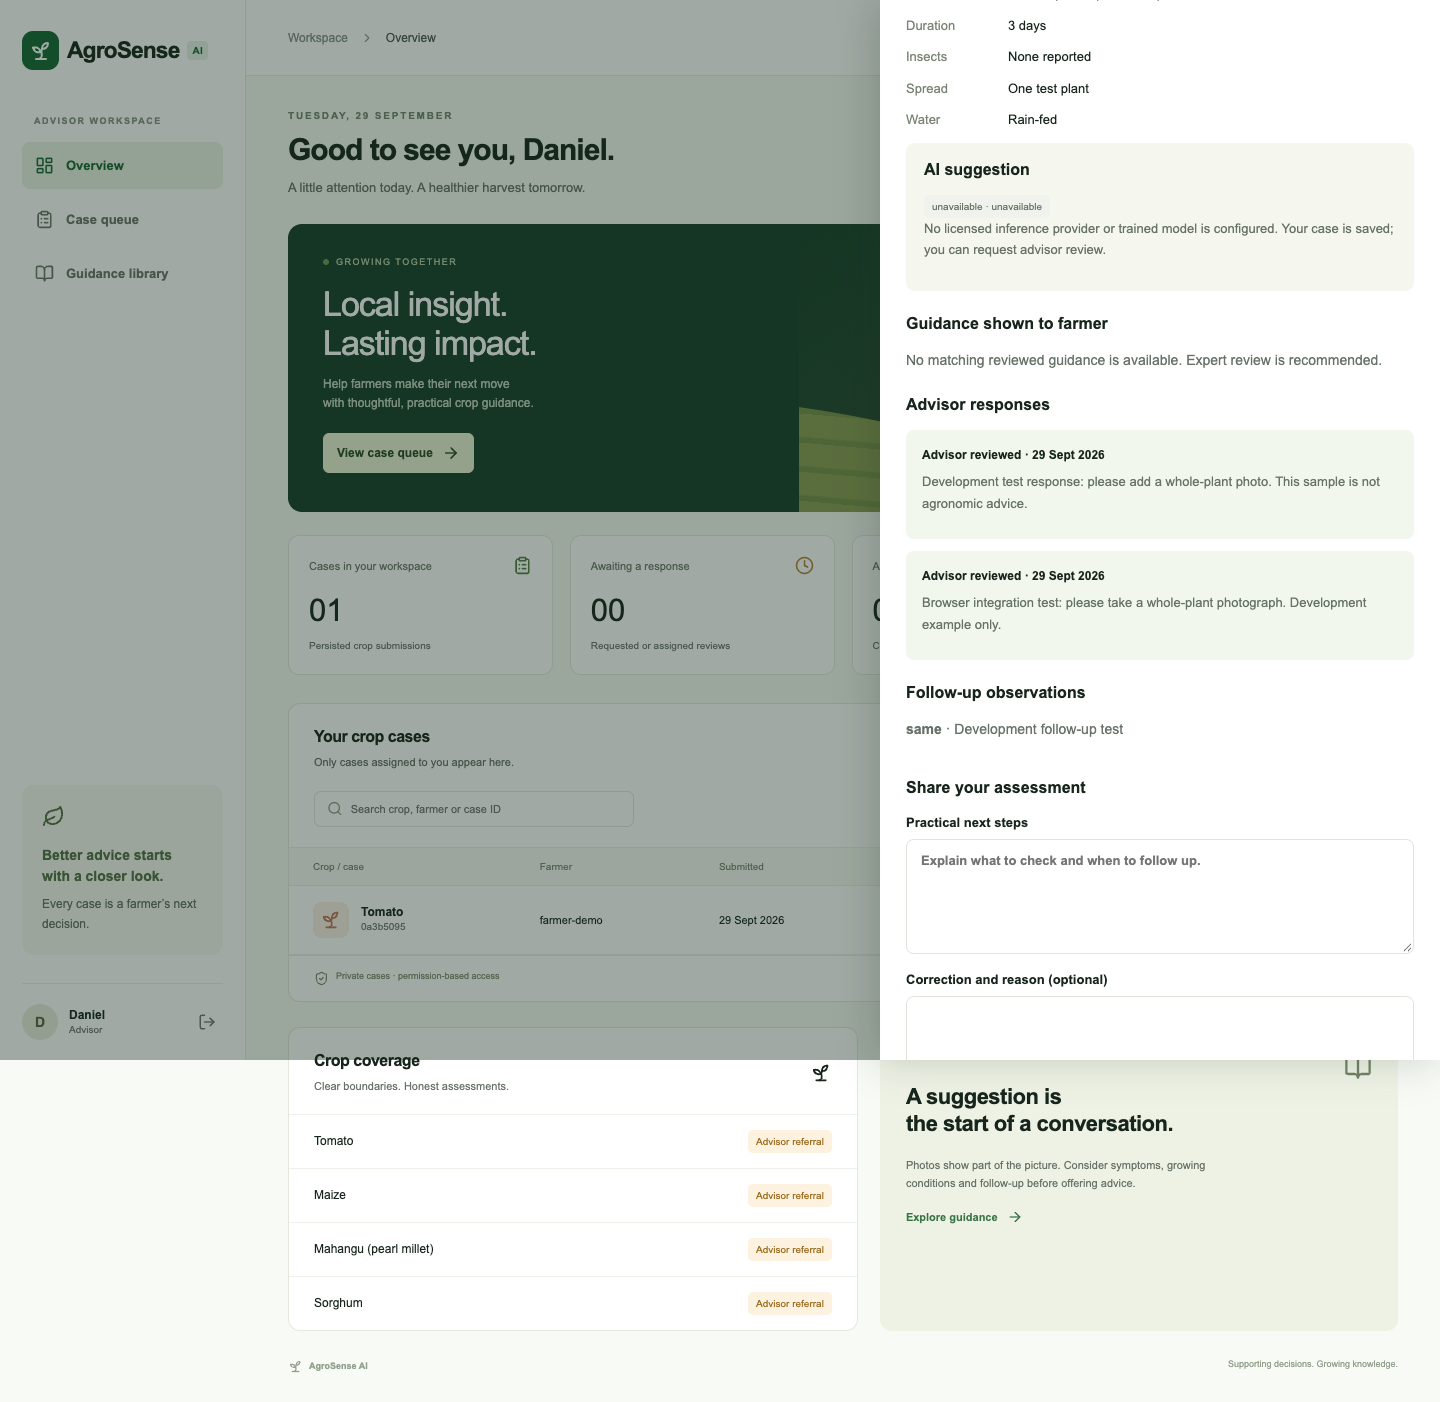
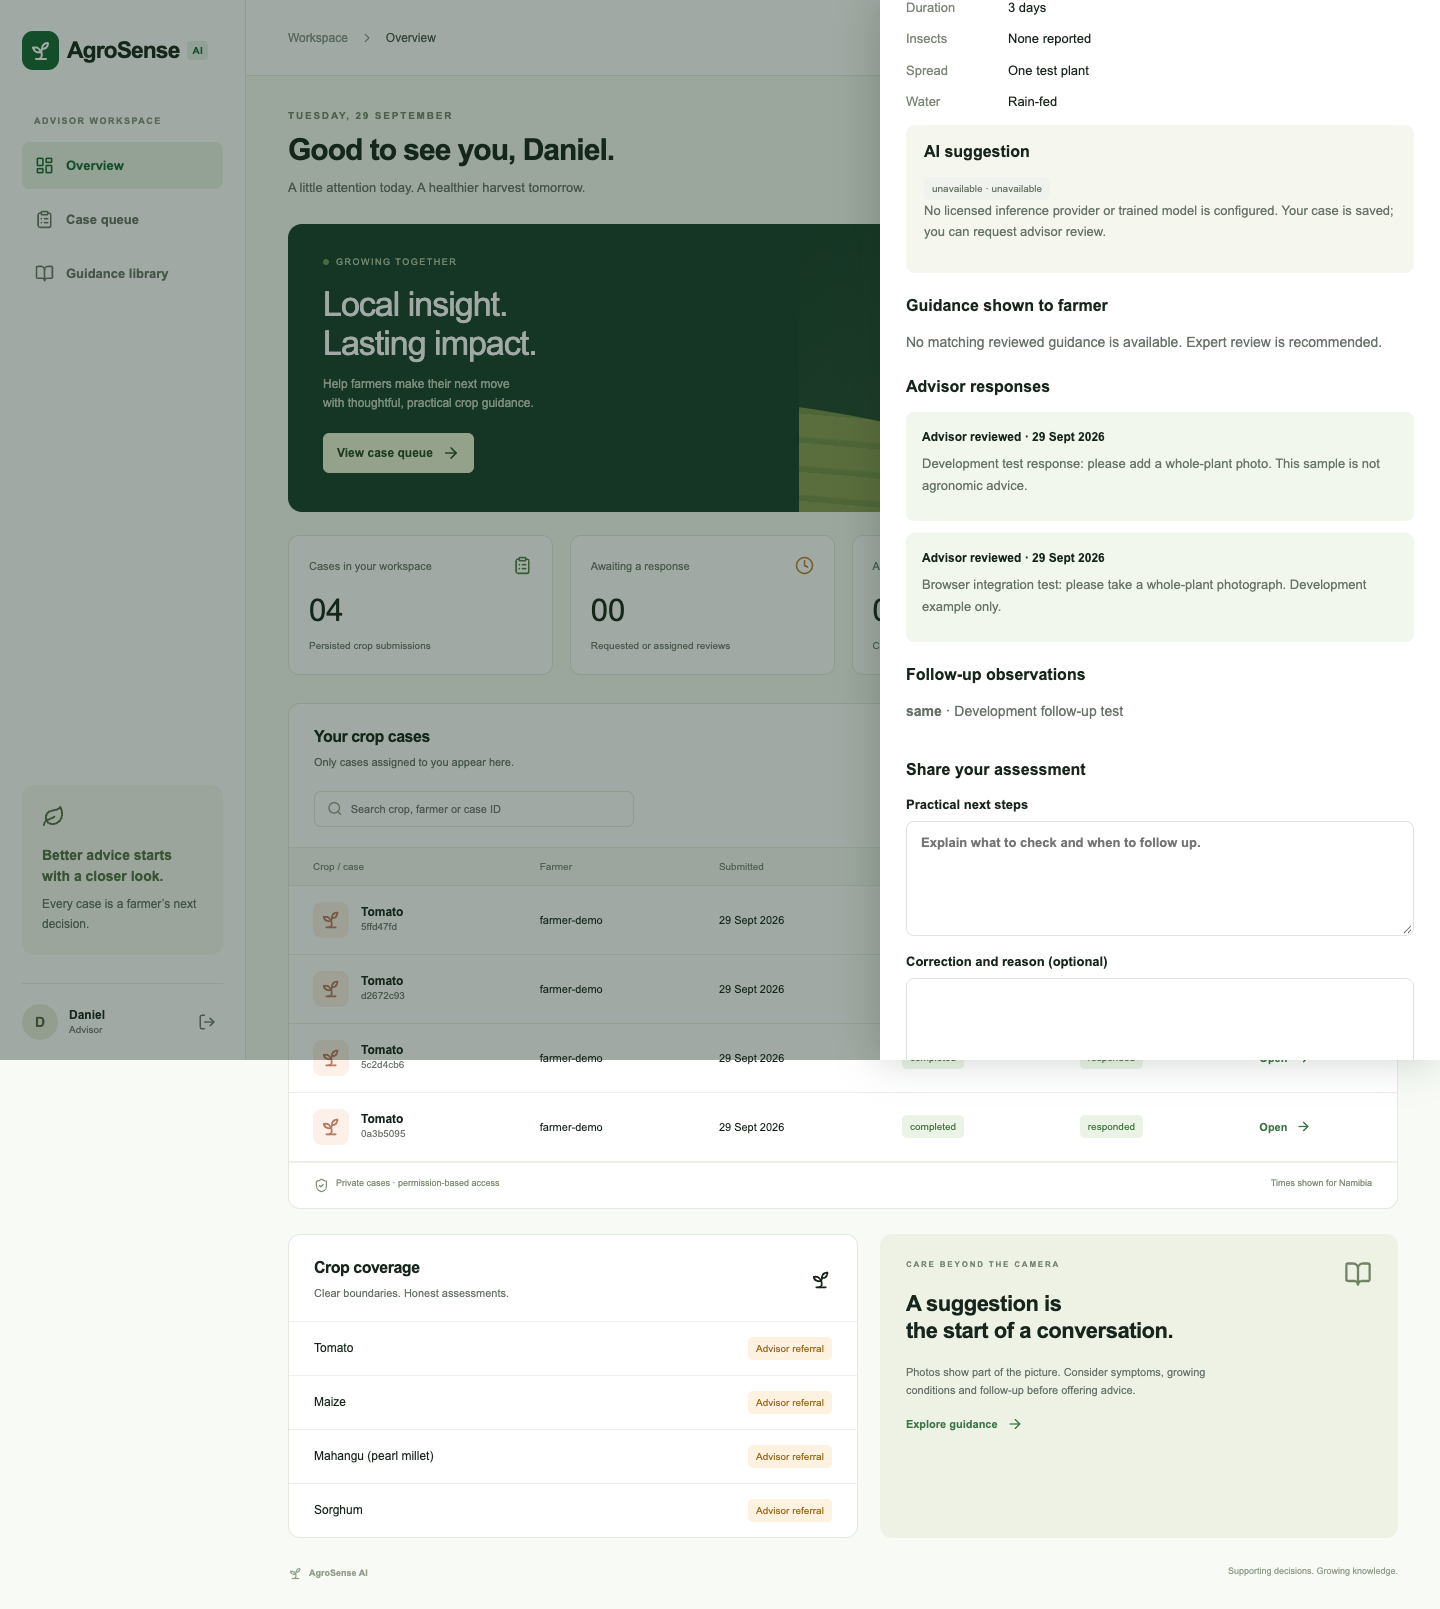
Record emulator verification and pin path_provider plugins
Work done in the Codex session, committed before the app is simplified.

- apps/farmer-mobile/pubspec.yaml/.lock: pin path_provider_android 2.2.22
  and path_provider_foundation 2.4.2, whose platform-channel versions
  load under the tested Flutter 3.38.4 toolchain
- scripts/android-ui.py, scripts/android-offline-check.py: adb helpers
  for driving the emulator, including an offline submit, force-stop and
  reconnect check
- docs/test-summary.md: emulator journey, APK build and current test
  counts; README: APK location and the content check script
- docs/screenshots: refreshed portal shots and farmer-app screens

diff --git a/scripts/android-offline-check.py b/scripts/android-offline-check.py
@@ -1,0 +1,50 @@
+import json,re,sqlite3,subprocess,tempfile,time,xml.etree.ElementTree as ET
+from pathlib import Path
+ROOT=Path(__file__).resolve().parents[1]
+PACKAGE='na.agrosense.agrosense_farmer'
+def adb(*args): return subprocess.check_output(['adb','-s','emulator-5554',*args],timeout=30)
+def nodes():
+    adb('shell','uiautomator','dump','/sdcard/agrosense-ui.xml')
+    return ET.fromstring(adb('shell','cat','/sdcard/agrosense-ui.xml')).iter('node')
+def tap(label):
+    for n in nodes():
+        value=n.get('content-desc','') or n.get('text','') or n.get('hint','')
+        if label in value and n.get('enabled')=='true':
+            x1,y1,x2,y2=map(int,re.findall(r'\d+',n.get('bounds')))
+            adb('shell','input','tap',str((x1+x2)//2),str((y1+y2)//2));return
+    raise RuntimeError('Missing UI control: '+label)
+def snapshot():
+    data=adb('exec-out','run-as',PACKAGE,'cat','databases/agrosense.db')
+    path=Path(tempfile.mktemp(suffix='.sqlite'))
+    path.write_bytes(data)
+    db=sqlite3.connect(path)
+    rows=db.execute('SELECT id,ready,server_id FROM drafts').fetchall()
+    db.close();path.unlink();return rows
+try:
+    adb('shell','svc','wifi','disable')
+    adb('shell','svc','data','disable')
+    tap('Save and submit crop check')
+    time.sleep(2)
+    adb('shell','am','force-stop',PACKAGE)
+    before=snapshot();assert len(before)==1 and before[0][1]==1,before
+    key=before[0][0]
+    adb('shell','am','start','-n',PACKAGE+'/.MainActivity')
+    time.sleep(3)
+    restarted=snapshot();assert restarted[0][0]==key,restarted
+    for _ in range(3): adb('shell','input','swipe','530','1850','530','650','400');time.sleep(.3)
+    (ROOT/'docs/screenshots/farmer-offline-draft.png').write_bytes(adb('exec-out','screencap','-p'))
+finally:
+    adb('shell','svc','wifi','enable')
+    adb('shell','svc','data','enable')
+time.sleep(3)
+tap('Sync saved work')
+for _ in range(35):
+    time.sleep(1)
+    if not snapshot():break
+else:raise AssertionError('Draft did not synchronize')
+db=sqlite3.connect(ROOT/'data/agrosense.sqlite')
+count=db.execute('SELECT COUNT(*) FROM cases WHERE client_submission_id=?',(key,)).fetchone()[0]
+assert count==1,count
+case=db.execute('SELECT id,processing_state FROM cases WHERE client_submission_id=?',(key,)).fetchone()
+assert db.execute('SELECT COUNT(*) FROM jobs WHERE case_id=?',(case[0],)).fetchone()[0]==1
+print(json.dumps({'passed':True,'draft_id':key,'server_case_count':count,'case_id':case[0],'checks':['device capture','offline ready draft','force-stop and restart persistence','reconnect upload','one server case and job']}))

diff --git a/scripts/android-ui.py b/scripts/android-ui.py
@@ -1,0 +1,43 @@
+"""Small local-emulator UI verification helper; no production devices."""
+import re
+import subprocess
+import sys
+import time
+import xml.etree.ElementTree as ET
+from pathlib import Path
+
+DEVICE = 'emulator-5554'
+
+def adb(*args):
+    return subprocess.check_output(['adb', '-s', DEVICE, *args], timeout=30)
+
+def nodes():
+    adb('shell','uiautomator','dump','/sdcard/agrosense-ui.xml')
+    return ET.fromstring(adb('shell','cat','/sdcard/agrosense-ui.xml')).iter('node')
+
+def tap(text):
+    for n in nodes():
+        value=n.get('content-desc','') or n.get('text','') or n.get('hint','')
+        if text.lower() in value.lower() and n.get('enabled')=='true':
+            x1,y1,x2,y2=map(int,re.findall(r'\d+',n.get('bounds')))
+            adb('shell','input','tap',str((x1+x2)//2),str((y1+y2)//2))
+            time.sleep(.8)
+            print('Tapped:',value)
+            return
+    raise SystemExit('Not found: '+text)
+
+command=sys.argv[1]
+if command=='tap': tap(sys.argv[2])
+elif command=='text': adb('shell','input','text',sys.argv[2].replace(' ','%s'))
+elif command=='down': adb('shell','input','swipe','530','1850','530','650','450')
+elif command=='up': adb('shell','input','swipe','530','650','530','1850','450')
+elif command=='back': adb('shell','input','keyevent','4')
+elif command=='dump':
+    for n in nodes():
+        value=n.get('content-desc','') or n.get('text','') or n.get('hint','')
+        if value: print(n.get('class'),n.get('bounds'),repr(value))
+elif command=='shot':
+    name=sys.argv[2]
+    if not re.fullmatch(r'[a-z0-9-]+',name): raise SystemExit('Invalid screenshot name')
+    Path('docs/screenshots/'+name+'.png').write_bytes(adb('exec-out','screencap','-p'))
+else: raise SystemExit('Unknown command')

diff --git a/docs/test-summary.md b/docs/test-summary.md
@@ -2,28 +2,36 @@
 
 Verified locally on 29 September 2026. These tests measure software behavior, not diagnostic accuracy.
 
-| Check                                                                                       | Result                                                     |
-| ------------------------------------------------------------------------------------------- | ---------------------------------------------------------- |
-| NestJS API TypeScript compilation                                                           | Passed                                                     |
-| React TypeScript/Vite production build                                                      | Passed                                                     |
-| Backend workflow/authorization tests                                                        | 7 passed                                                   |
-| FastAPI input, fixture, unavailable, unsupported, abstention and production-guard tests     | 8 passed                                                   |
-| Dart static analysis (lib and test)                                                         | Passed, no issues                                          |
-| Flutter capture widget and SQLite restart/reconnect tests                                   | 2 passed                                                   |
-| Full HTTP workflow, default unavailable mode                                                | Passed                                                     |
-| Full HTTP workflow, explicitly labelled fixture mode with versioned sample advice           | Passed                                                     |
-| Chrome advisor login, overview, case photo/detail, response and mobile-width overflow check | Passed                                                     |
-| Chrome admin drafting / separate content-reviewer publication                               | Passed                                                     |
-| Android APK build and emulator                                                              | Packaging verification in progress; update before handover |
-| Real model/provider inference                                                               | Not run: no licensed model or credentials supplied         |
-| Agronomic field accuracy / treatment review / low-end phone budgets                         | Not evaluated                                              |
+Mobile verification was completed on 30 September 2026: all six tests and static analysis passed, and a fresh ARM64 debug APK was built and installed over the existing emulator app. The API health check confirmed SQLite and unavailable inference mode; the advisor portal returned HTTP 200.
+
+| Check                                                                                       | Result                                                                                                                         |
+| ------------------------------------------------------------------------------------------- | ------------------------------------------------------------------------------------------------------------------------------ |
+| Production npm dependency audit                                                             | Zero known vulnerabilities after patched NestJS/sharp upgrades                                                                 |
+| NestJS API TypeScript compilation                                                           | Passed                                                                                                                         |
+| React TypeScript/Vite production build                                                      | Passed                                                                                                                         |
+| Backend workflow/authorization tests                                                        | 9 passed                                                                                                                       |
+| FastAPI input, fixture, unavailable, unsupported, abstention and production-guard tests     | 8 passed                                                                                                                       |
+| Dart static analysis (lib and test)                                                         | Passed, no issues                                                                                                              |
+| Flutter capture, SQLite migration/reconnect, refresh throttling and rejected upload/reminder tests | 6 passed                                                                                                                  |
+| Full HTTP workflow, default unavailable mode                                                | Passed                                                                                                                         |
+| Full HTTP workflow, explicitly labelled fixture mode with versioned sample advice           | Passed                                                                                                                         |
+| Chrome advisor login, overview, case photo/detail, response and mobile-width overflow check | Passed                                                                                                                         |
+| Chrome admin drafting / separate content-reviewer publication                               | Passed                                                                                                                         |
+| Android APK build and emulator                                                              | ARM64 debug APK built; installed and launched on Pixel 7 / Android 16 emulator                                                 |
+| Emulator farmer journey                                                                     | Passed: demo sign-in, backend field creation, gallery photo, offline submission, force-stop/restart and exactly-once reconnect |
+| Real model/provider inference                                                               | Not run: no licensed model or credentials supplied                                                                             |
+| Agronomic field accuracy / treatment review / low-end phone budgets                         | Not evaluated                                                                                                                  |
 
 The HTTP checks exercise persistent fields, photo decoding/upload, duplicate submission/image/job/follow-up prevention, cross-owner access denial, worker completion, admin assignment, advisor response and farmer retrieval. The fixture run also checks that the matched advice card is explicitly development-only. Default inference was restored to unavailable after testing.
 
-The Flutter SQLite test closes and reopens a real local database after a simulated connection loss following an image upload. On reconnect, overlapping synchronization requests produce one case, one image entry and one job through a test server adapter. This verifies client behavior alongside independent server deduplication tests; it is not a physical-device airplane-mode demonstration.
+The Flutter SQLite test closes and reopens a real local database after a simulated connection loss following an image upload. On reconnect, overlapping synchronization requests produce one case, one image entry and one job through a test server adapter. This verifies client behavior alongside independent server deduplication tests. A separate Android emulator test also captured a gallery image, disabled emulator networking, submitted a draft, force-stopped and restarted the app, restored networking and verified exactly one server case and job. Networking was restored in a finally block. This is not a physical low-end-device field trial.
 
 The real-adapter abstention test mocks the external HTTP provider. It confirms that an unvalidated accepted result becomes uncertain. It does not count as live real inference or prove any classification performance.
 
 Known non-fatal environment notices: Node reports experimental built-in SQLite support; Starlette's test client emits an AnyIO deprecation warning. The first Android build's Gradle daemon exited; memory was reduced for the retry. A SQLite test-driver major-version mismatch was fixed by pinning sqlite3 2.9.4.
+
+The latest mobile tests initially timed out while loading with native-hook path-provider implementations. Pinning path_provider_android 2.2.22 and path_provider_foundation 2.4.2 restored all six tests in an isolated copy and the main project; static analysis also passed. These pins retain platform-channel implementations for the tested Flutter 3.38.4 toolchain.
+
+The subsequent APK build encountered stale generated paths after the local Flutter SDK moved from Documents/flutter to dev/flutter. Regenerating package configuration with flutter pub get resolved this, and the final Flutter APK build passed.
 
 See README and operations.md for remaining integrations and acceptance criteria. No production or field-readiness claim is made.

diff --git a/README.md b/README.md
@@ -40,6 +40,8 @@ flutter build apk --debug --target-platform=android-arm64 --dart-define=DEV_AUTH
 
 The emulator uses `10.0.2.2` to reach this Mac. On a physical phone use a reachable development host address. Plain HTTP is allowed only in the Android debug manifest. A release build needs HTTPS, real authentication, release signing and approved content. Never enable development sign-in for a public deployment.
 
+The verified ARM64 debug APK is at `apps/farmer-mobile/build/app/outputs/flutter-apk/app-debug.apk`.
+
 ## What works
 
 - Persistent SQLite fields/cases, private validated JPEG/PNG uploads, source-metadata stripping and authorization.
@@ -59,6 +61,7 @@ cd ../../apps/farmer-mobile && flutter test
 # With all local services running, from root:
 node scripts/e2e.mjs
 node scripts/browser-check.mjs
+node scripts/content-check.mjs
 ```
 
 The end-to-end script creates labelled test records using a synthetic non-diagnostic image. The browser script uses installed Google Chrome and adds a labelled test advisor response. Screenshots are in `docs/screenshots/`. See [test status](docs/test-summary.md) for measured results and unverified criteria.
